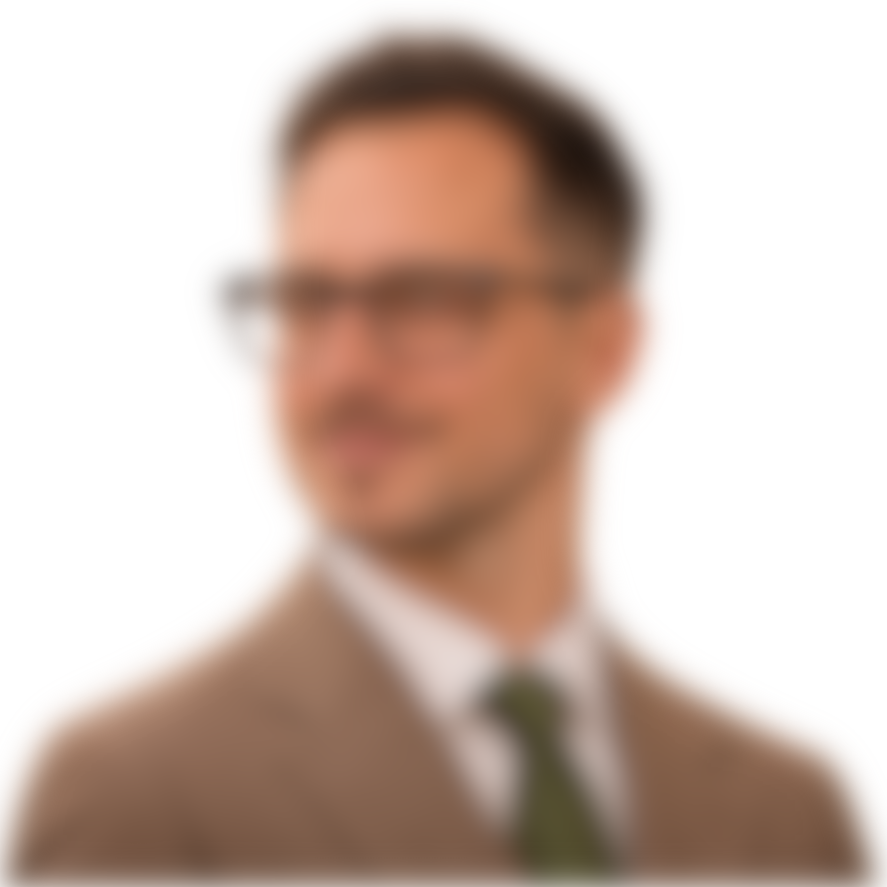
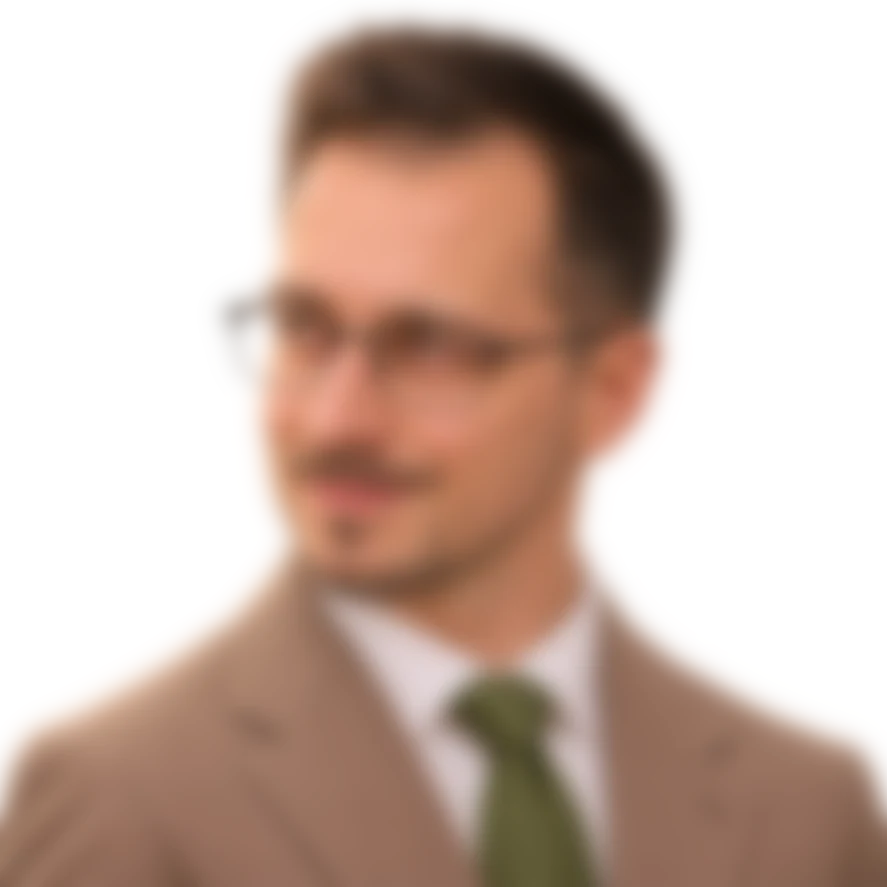
Update the homepage and sharing image with the approved blended portrait

Changed region(s): [[0.0, 0.0, 1.0, 1.0]]

diff --git a/index.html b/index.html
@@ -11,7 +11,7 @@
   <meta property="og:title" content="Neuhaus Apps — Apps worth opening">
   <meta property="og:description" content="Focused apps for tracking takeout, making room for prayer, and comparing job offers.">
   <meta property="og:url" content="https://neuhausapps.com/">
-  <meta property="og:image" content="https://neuhausapps.com/assets/img/neuhaus-team-hero.jpg">
+  <meta property="og:image" content="https://neuhausapps.com/assets/img/neuhaus-team-hero.jpg?v=20261127-blend">
   <meta property="og:image:width" content="1500">
   <meta property="og:image:height" content="728">
   <meta property="og:image:alt" content="Ian Neuhaus and his father in complementary ties beneath the Neuhaus wordmark">
@@ -68,9 +68,9 @@
         <img class="nh-portrait__person nh-portrait__person--father" src="assets/img/hero/father.webp?v=20261108-hires" width="887" height="887" fetchpriority="high" alt="Ian’s father in a taupe suit and burgundy tie">
         <img class="nh-portrait__person nh-portrait__person--father-blur-light" src="assets/img/hero/father-blur-light.webp" width="887" height="887" decoding="async" alt="" aria-hidden="true">
         <img class="nh-portrait__person nh-portrait__person--father-blur-heavy" src="assets/img/hero/father-blur-heavy.webp" width="887" height="887" decoding="async" alt="" aria-hidden="true">
-        <img class="nh-portrait__person nh-portrait__person--ian" src="assets/img/hero/ian.webp?v=20261108-hires" width="887" height="887" fetchpriority="high" alt="Ian in glasses, a taupe suit, and a green tie">
-        <img class="nh-portrait__person nh-portrait__person--ian-blur-light" src="assets/img/hero/ian-blur-light.webp" width="887" height="887" decoding="async" alt="" aria-hidden="true">
-        <img class="nh-portrait__person nh-portrait__person--ian-blur-heavy" src="assets/img/hero/ian-blur-heavy.webp" width="887" height="887" decoding="async" alt="" aria-hidden="true">
+        <img class="nh-portrait__person nh-portrait__person--ian" src="assets/img/hero/ian.webp?v=20261127-blend" width="1254" height="1254" fetchpriority="high" alt="Ian in glasses, a taupe suit, and a green tie">
+        <img class="nh-portrait__person nh-portrait__person--ian-blur-light" src="assets/img/hero/ian-blur-light.webp?v=20261127-blend" width="887" height="887" decoding="async" alt="" aria-hidden="true">
+        <img class="nh-portrait__person nh-portrait__person--ian-blur-heavy" src="assets/img/hero/ian-blur-heavy.webp?v=20261127-blend" width="887" height="887" decoding="async" alt="" aria-hidden="true">
         <div class="nh-portrait__shade" aria-hidden="true"></div>
         <button class="nh-portrait__trigger nh-portrait__trigger--ian" type="button" data-hero-trigger="ios" aria-label="Ian: reveal iPhone apps" aria-controls="hero-iphone" aria-expanded="false" hidden></button>
         <a class="nh-portrait__link nh-portrait__link--apple" id="hero-iphone" data-hero-link="ios" href="#apps" hidden>
